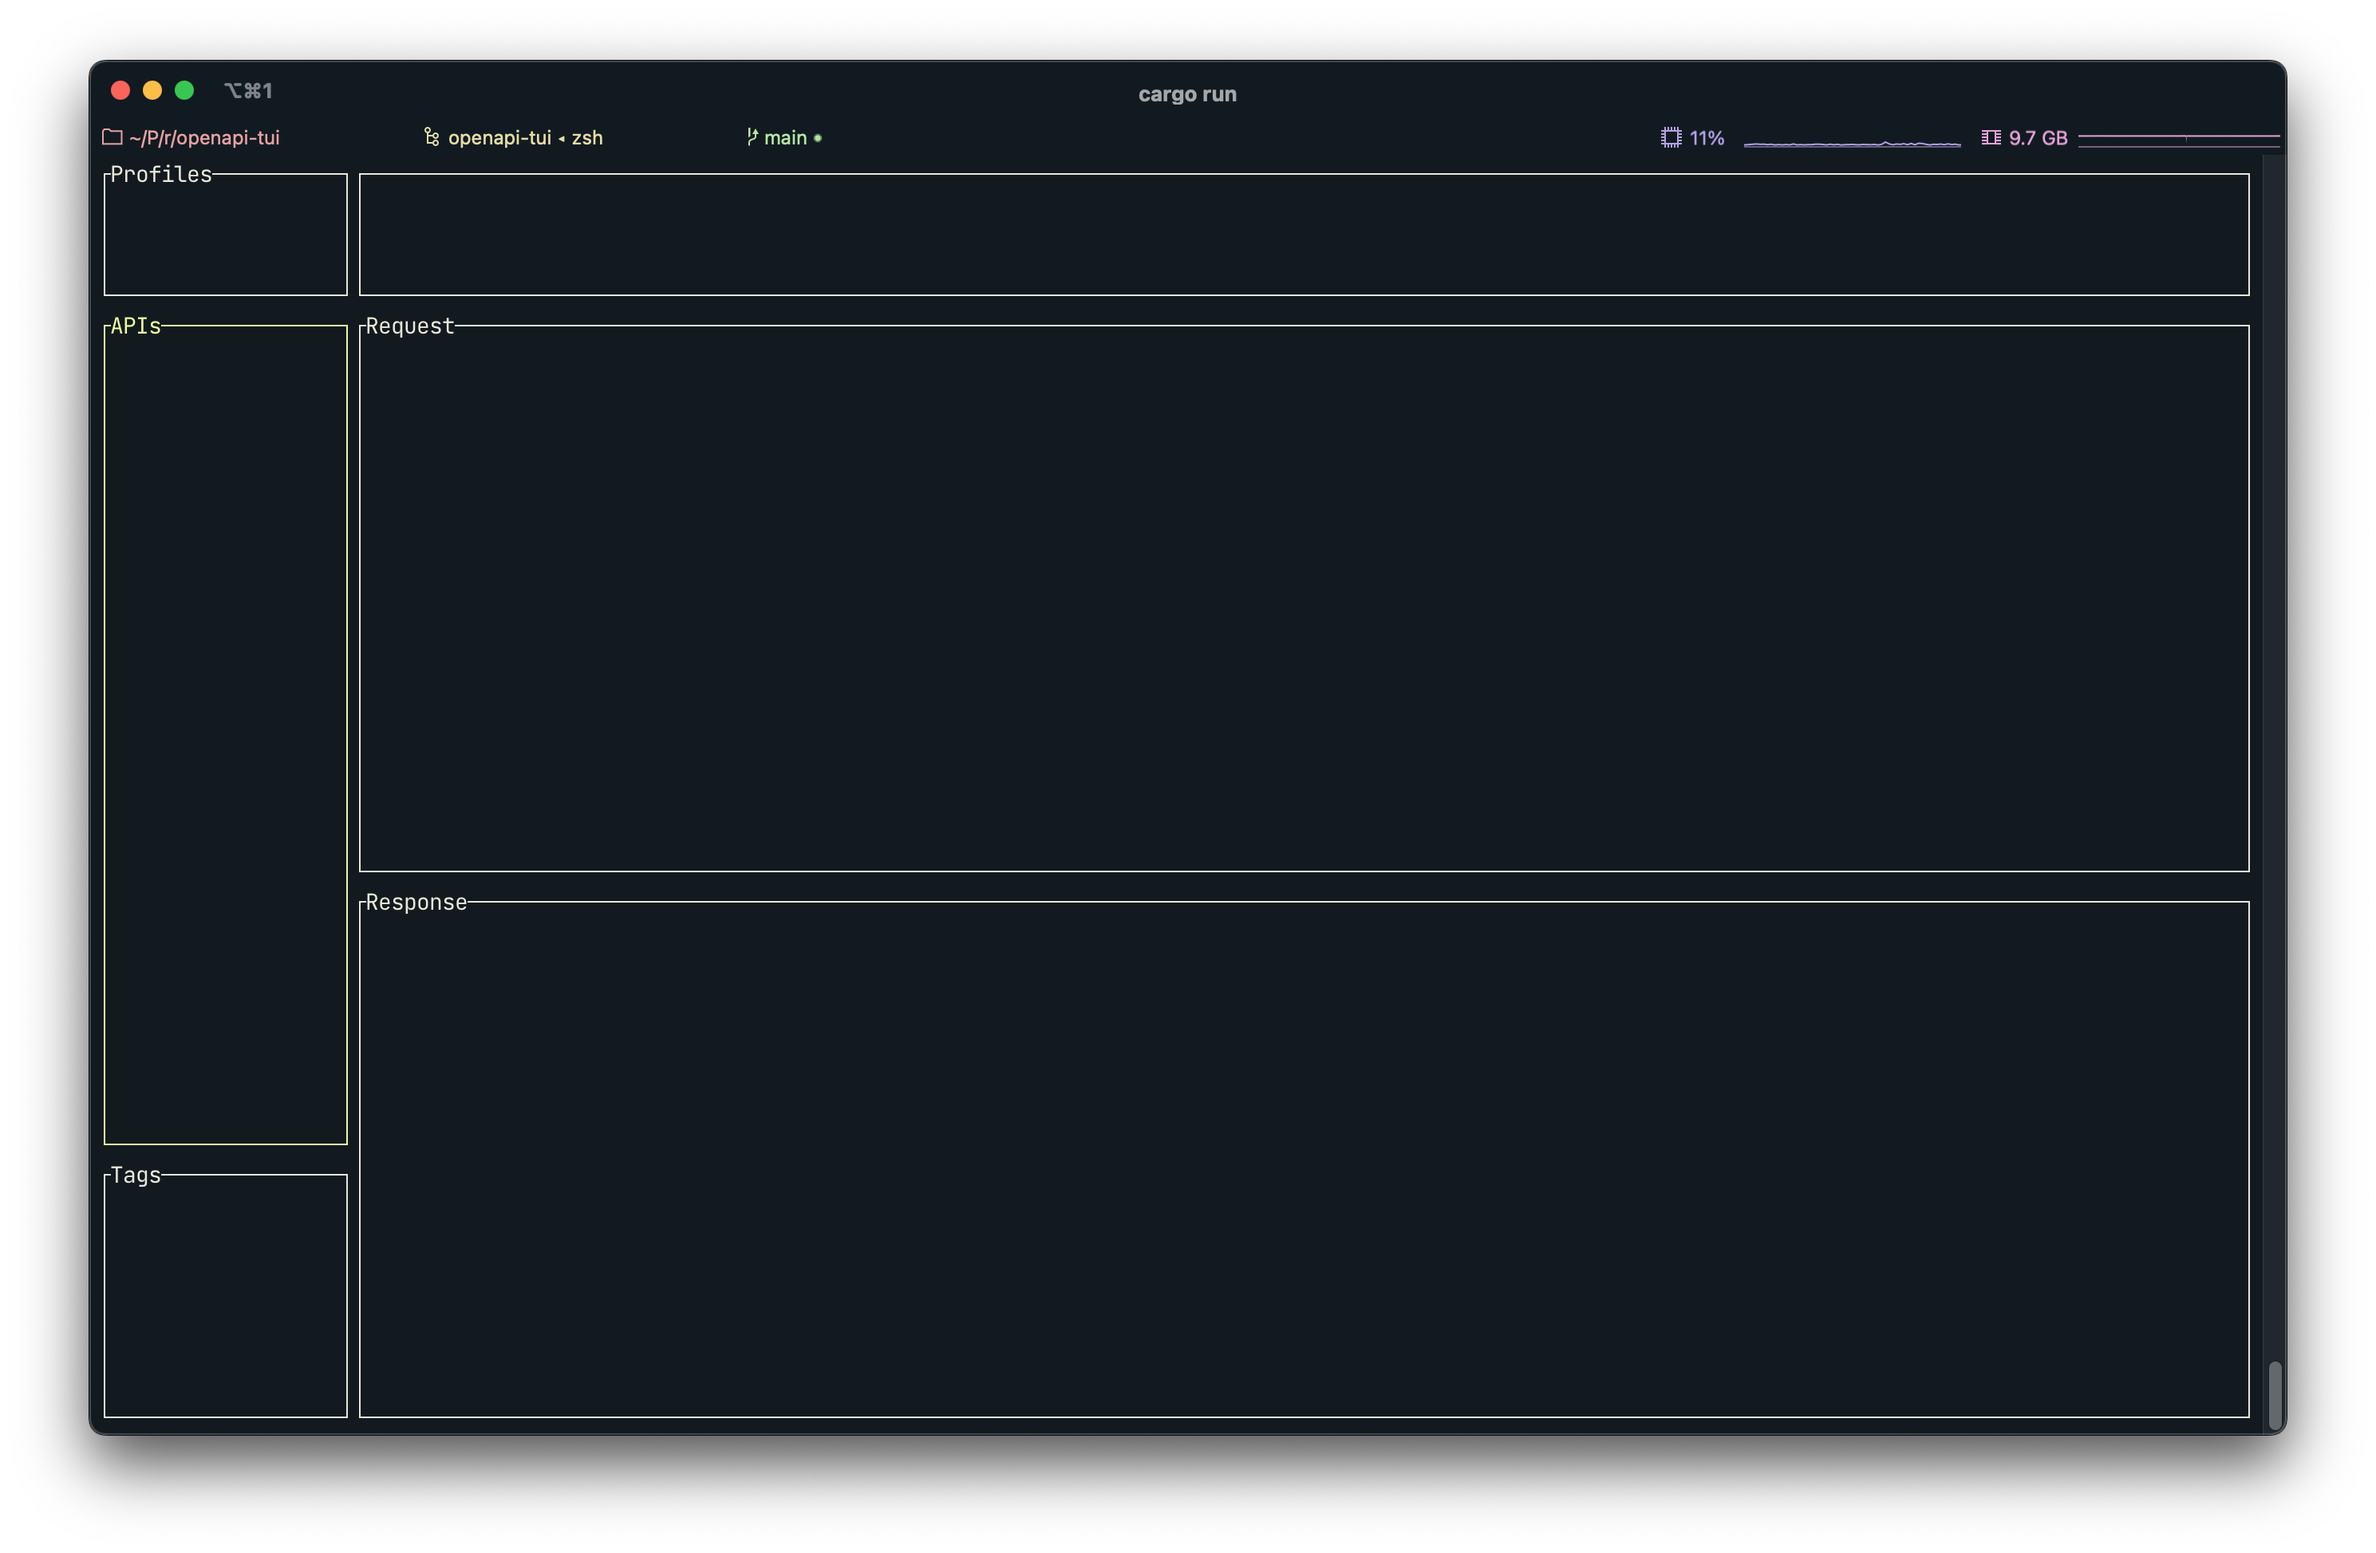
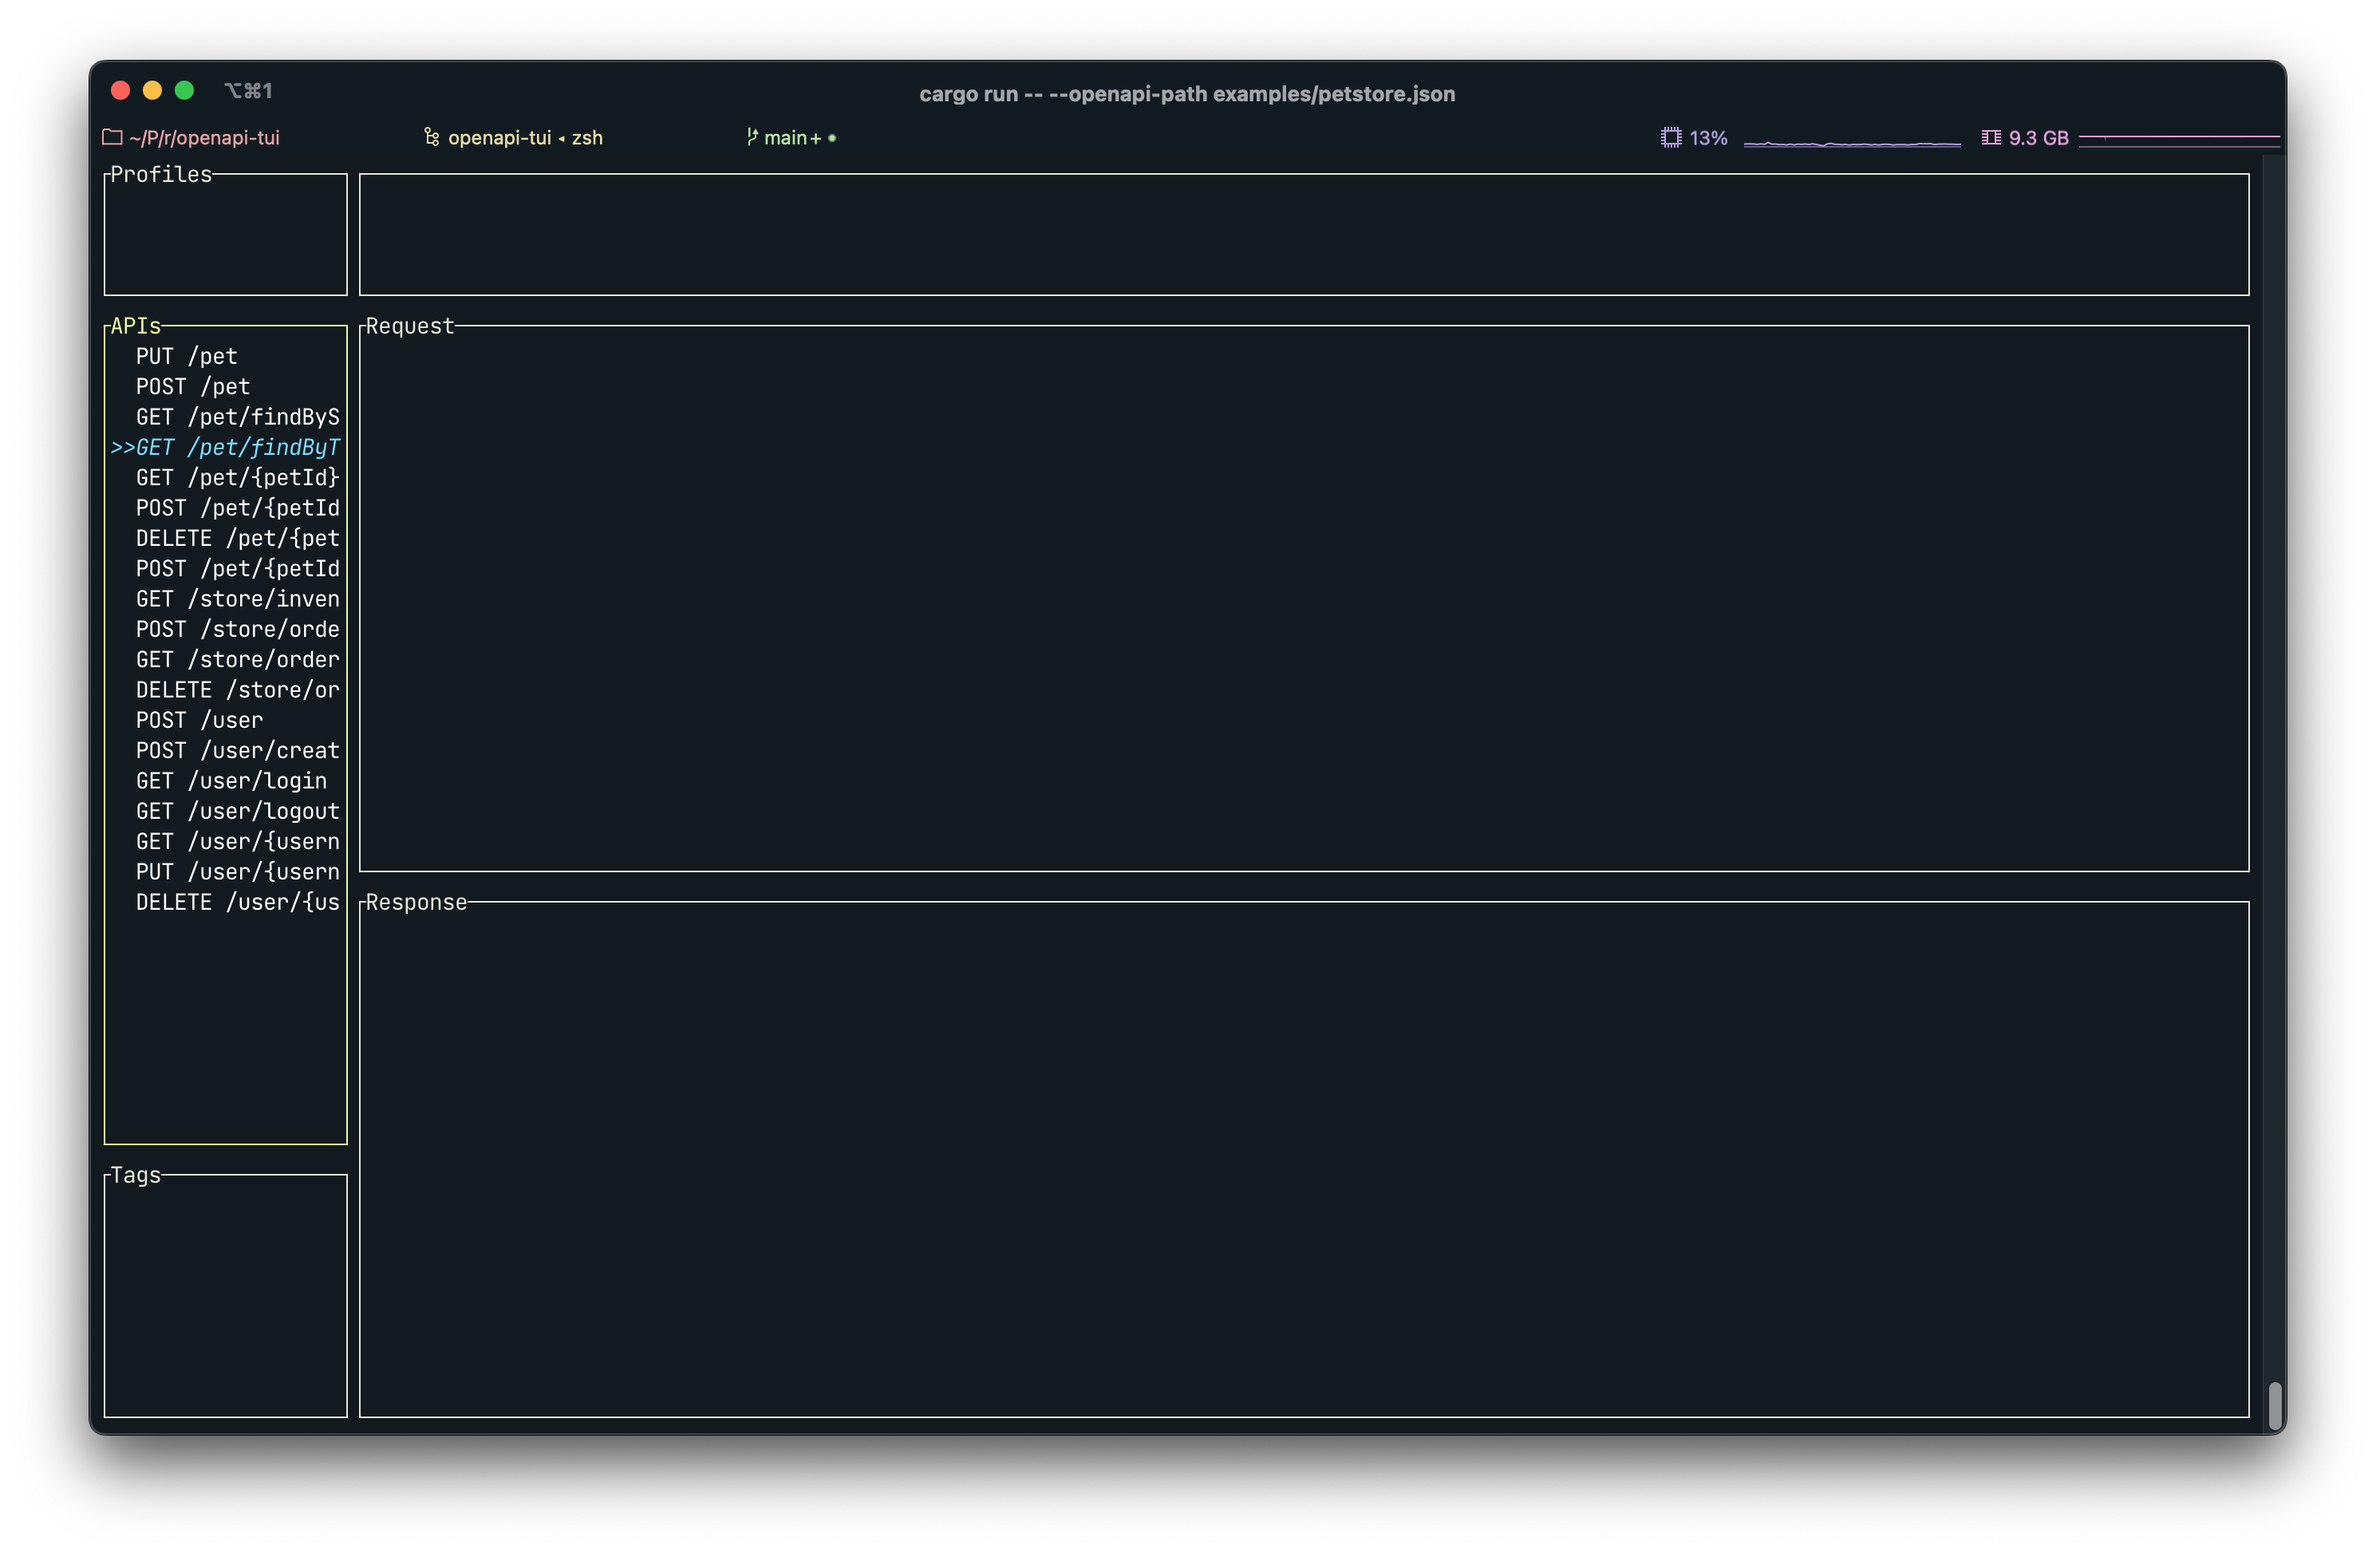
feat: added openapi operations to apis list and enabled movement in apis list :sparkles:

Changed region(s): [[0.0625, 0.2158, 0.1561, 0.5858], [0.9369, 0.8941, 0.9681, 0.925], [0.5309, 0.0308, 0.5621, 0.0617]]

diff --git a/src/components/home.rs b/src/components/home.rs
@@ -1,7 +1,8 @@
-use std::{collections::HashMap, default, time::Duration};
+use std::{collections::HashMap, default, rc::Rc, time::Duration};
 
 use color_eyre::{eyre::Result, owo_colors::OwoColorize};
 use crossterm::event::{KeyCode, KeyEvent};
+use oas3::{Error, Spec};
 use ratatui::{prelude::*, widgets::*};
 use serde::{
   de::{self, Deserializer, Visitor},
@@ -56,15 +57,88 @@ pub struct Home {
   command_tx: Option<UnboundedSender<Action>>,
   config: Config,
   focus: Pane,
+  openapi_path: String,
+  openapi_spec: Option<Spec>,
+  openapi_spec_operations_len: usize,
+  api_row_index: usize,
 }
 
 impl Home {
-  pub fn new() -> Self {
-    Self::default()
+  pub fn new(openapi_path: String) -> Self {
+    Self {
+      command_tx: None,
+      config: Config::default(),
+      focus: Pane::default(),
+      openapi_path,
+      openapi_spec: None,
+      openapi_spec_operations_len: 0,
+      api_row_index: 0,
+    }
+  }
+
+  fn render_left_panes(&mut self, frame: &mut Frame<'_>, area: Rc<[Rect]>) {
+    let focued_border_style = Style::default().fg(Color::LightGreen);
+
+    frame.render_widget(
+      Block::default().title("Profiles").borders(Borders::ALL).border_style(match self.focus {
+        Pane::Profiles => focued_border_style,
+        _ => Style::default(),
+      }),
+      area[0],
+    );
+    frame.render_widget(
+      Block::default().title("APIs").borders(Borders::ALL).border_style(match self.focus {
+        Pane::Apis => focued_border_style,
+        _ => Style::default(),
+      }),
+      area[1],
+    );
+    frame.render_widget(
+      Block::default().title("Tags").borders(Borders::ALL).border_style(match self.focus {
+        Pane::Tags => focued_border_style,
+        _ => Style::default(),
+      }),
+      area[2],
+    );
+  }
+
+  fn render_right_panes(&mut self, frame: &mut Frame<'_>, area: Rc<[Rect]>) {
+    let focued_border_style = Style::default().fg(Color::LightGreen);
+
+    frame.render_widget(
+      Block::default().borders(Borders::ALL).border_style(match self.focus {
+        Pane::Call => focued_border_style,
+        _ => Style::default(),
+      }),
+      area[0],
+    );
+    frame.render_widget(
+      Block::default().title("Request").borders(Borders::ALL).border_style(match self.focus {
+        Pane::Request => focued_border_style,
+        _ => Style::default(),
+      }),
+      area[1],
+    );
+    frame.render_widget(
+      Block::default().title("Response").borders(Borders::ALL).border_style(match self.focus {
+        Pane::Response => focued_border_style,
+        _ => Style::default(),
+      }),
+      area[2],
+    );
   }
 }
 
 impl Component for Home {
+  fn init(&mut self) -> Result<()> {
+    self.openapi_spec = Some(oas3::from_path(self.openapi_path.clone())?);
+    self.openapi_spec_operations_len = match &self.openapi_spec {
+      Some(spec) => spec.operations().count(),
+      None => 0,
+    };
+    Ok(())
+  }
+
   fn register_action_handler(&mut self, tx: UnboundedSender<Action>) -> Result<()> {
     self.command_tx = Some(tx);
     Ok(())
@@ -79,6 +153,29 @@ impl Component for Home {
     match action {
       Action::Tick => {},
       Action::Focus(pane) => self.focus = pane,
+      Action::Down => {
+        match self.focus {
+          Pane::Apis => {
+            if self.openapi_spec_operations_len > 0 {
+              self.api_row_index = self.api_row_index.saturating_add(1) % self.openapi_spec_operations_len;
+            }
+          },
+          Pane::Profiles => {},
+          _ => {},
+        }
+      },
+      Action::Up => {
+        match self.focus {
+          Pane::Apis => {
+            if self.openapi_spec_operations_len > 0 {
+              self.api_row_index = self.api_row_index.saturating_add(self.openapi_spec_operations_len - 1)
+                % self.openapi_spec_operations_len;
+            }
+          },
+          Pane::Profiles => {},
+          _ => {},
+        }
+      },
       _ => {},
     }
     Ok(None)
@@ -88,13 +185,16 @@ impl Component for Home {
     let response = match key.code {
       KeyCode::Right | KeyCode::Char('l') | KeyCode::Char('L') => EventResponse::Stop(Action::Focus(self.focus.next())),
       KeyCode::Left | KeyCode::Char('h') | KeyCode::Char('H') => EventResponse::Stop(Action::Focus(self.focus.prev())),
-      _ => return Ok(None),
+      KeyCode::Down | KeyCode::Char('j') | KeyCode::Char('J') => EventResponse::Stop(Action::Down),
+      KeyCode::Up | KeyCode::Char('k') | KeyCode::Char('K') => EventResponse::Stop(Action::Up),
+      _ => {
+        return Ok(None);
+      },
     };
     Ok(Some(response))
   }
 
   fn draw(&mut self, frame: &mut Frame<'_>, area: Rect) -> Result<()> {
-    let focued_border_style = Style::default().fg(Color::LightGreen);
     let outer_layout = Layout::default()
       .direction(Direction::Horizontal)
       .constraints(vec![Constraint::Min(20), Constraint::Percentage(100)])
@@ -110,50 +210,22 @@ impl Component for Home {
       .constraints(vec![Constraint::Max(5), Constraint::Fill(1), Constraint::Fill(1)])
       .split(outer_layout[1]);
 
-    frame.render_widget(
-      Block::default().title("Profiles").borders(Borders::ALL).border_style(match self.focus {
-        Pane::Profiles => focued_border_style,
-        _ => Style::default(),
-      }),
-      left_panes[0],
-    );
-    frame.render_widget(
-      Block::default().title("APIs").borders(Borders::ALL).border_style(match self.focus {
-        Pane::Apis => focued_border_style,
-        _ => Style::default(),
-      }),
-      left_panes[1],
-    );
-    frame.render_widget(
-      Block::default().title("Tags").borders(Borders::ALL).border_style(match self.focus {
-        Pane::Tags => focued_border_style,
-        _ => Style::default(),
-      }),
-      left_panes[2],
-    );
+    if let Some(spec) = &self.openapi_spec {
+      let items = spec.operations().map(|operation| format!("{} {}", operation.1.as_str(), operation.0));
 
-    frame.render_widget(
-      Block::default().borders(Borders::ALL).border_style(match self.focus {
-        Pane::Call => focued_border_style,
-        _ => Style::default(),
-      }),
-      right_panes[0],
-    );
-    frame.render_widget(
-      Block::default().title("Request").borders(Borders::ALL).border_style(match self.focus {
-        Pane::Request => focued_border_style,
-        _ => Style::default(),
-      }),
-      right_panes[1],
-    );
-    frame.render_widget(
-      Block::default().title("Response").borders(Borders::ALL).border_style(match self.focus {
-        Pane::Response => focued_border_style,
-        _ => Style::default(),
-      }),
-      right_panes[2],
-    );
+      let list = List::new(items)
+      .block(Block::default().title("List").borders(Borders::ALL))
+      .style(Style::default().fg(Color::White))
+      .highlight_style(Style::default().add_modifier(Modifier::ITALIC).fg(Color::LightBlue))
+      .highlight_symbol(">>")
+      // .repeat_highlight_symbol(true)
+      .direction(ListDirection::TopToBottom);
+      let mut state = ListState::default().with_selected(Some(self.api_row_index));
 
+      frame.render_stateful_widget(list, left_panes[1], &mut state);
+    }
+    self.render_left_panes(frame, left_panes);
+    self.render_right_panes(frame, right_panes);
     Ok(())
   }
 }

diff --git a/src/app.rs b/src/app.rs
@@ -14,7 +14,6 @@ pub enum Mode {
 
 pub struct App {
   pub config: Config,
-  pub openapi_path: String,
   pub components: Vec<Box<dyn Component>>,
   pub should_quit: bool,
   pub should_suspend: bool,
@@ -24,7 +23,7 @@ pub struct App {
 
 impl App {
   pub fn new(openapi_path: String) -> Result<Self> {
-    let home = Home::new();
+    let home = Home::new(openapi_path);
     let config = Config::new()?;
     let mode = Mode::Home;
     Ok(Self {
@@ -33,7 +32,6 @@ impl App {
       should_suspend: false,
       config,
       mode,
-      openapi_path,
       last_tick_key_events: Vec::new(),
     })
   }

diff --git a/src/action.rs b/src/action.rs
@@ -20,4 +20,6 @@ pub enum Action {
   Error(String),
   Help,
   Focus(Pane),
+  Up,
+  Down,
 }
